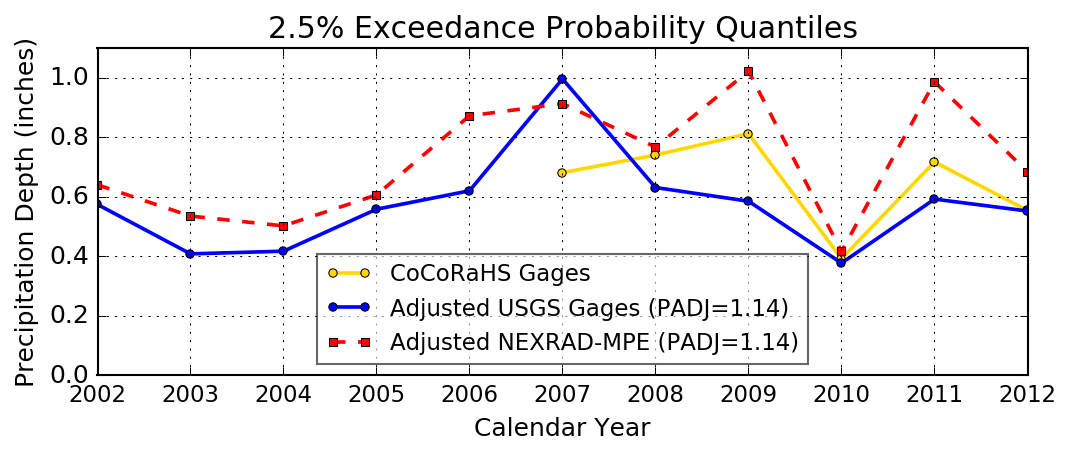
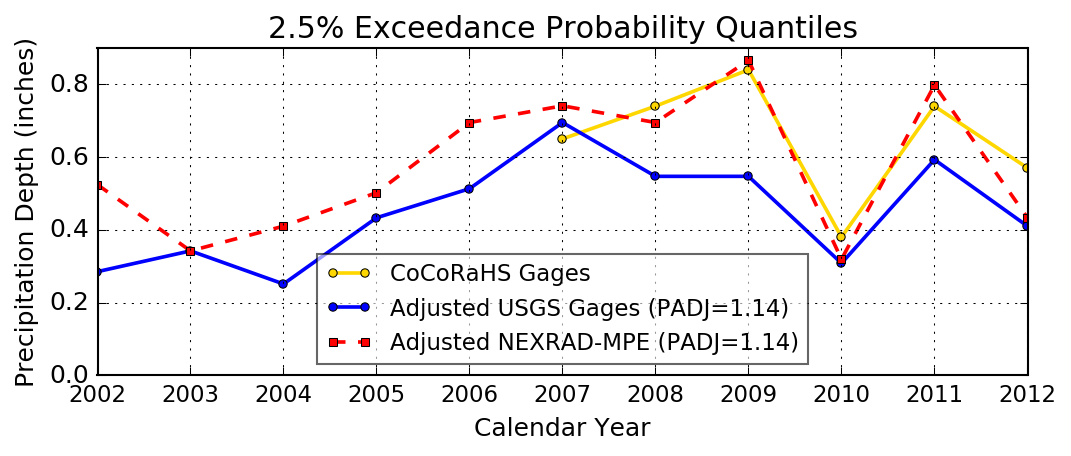
modified annual exceedance calc to use all annual gage data instead of by station by year mean - updated figs

diff --git a/plot_scripts/plot_annual_exceedence.py b/plot_scripts/plot_annual_exceedence.py
@@ -18,7 +18,7 @@ maindir = os.getcwd() + os.sep
 
 ############# USER INPUT BLOCK ###############################################
 gage_nets = ['cocorahs','usgs'] # choices: 'usgs' or 'cocorahs'
-criteria = 'Freeze' # choicea are 'Freeze' or 'Thaw' #see find_freeze_days.py for more info
+criteria = 'Thaw' # choicea are 'Freeze' or 'Thaw' #see find_freeze_days.py for more info
 exceed_prob_list = [0.025, 0.05, 0.10, 0.25] # decimal exceendence probablity option (enter 0 to ignore)
 padj = 1.14
 ################# create a list of days to use in the analysis ########################
@@ -87,16 +87,21 @@ for exceed_prob in exceed_prob_list:
         # for each data found in the paired files
         yr_lib_gage = {} # create a library of annual data for gage data
         if count == 1: # only initialize (create empty) dictionary for the first gage_net -> allows nexrad data to include pairs for all gage_nets
-            yr_lib_nex = {} # create a library of annual data for nexrad data
+            yr_lib_nex = {}; all_values_all_nex={} # create a library of annual data for nexrad data
         pfiles = os.listdir(maindir + 'data\\' + gage_net[:4] + '_nexrad_paired\\')    
+        all_values_all_gages={}; num_gages = len(pfiles)
+        gage_cnt = 0
         for each_pair in pfiles:
-            miss_cnt = 0
+            gage_cnt += 1
             if each_pair[:1] != 's' and each_pair[:-4] in gages_met: #ignores status.txt file
                 popen = open(maindir + 'data\\' + gage_net[:4] + '_nexrad_paired\\' + each_pair ,'r')
                 #print each_pair
                 import module_parse_txt
                 time_period = 'annual' # this tells the module to compute theshold values annually
                 yr_lib_gage,yr_lib_nex = module_parse_txt.exceedence(popen,exceed_prob,temp_lib,criteria,yr_lib_gage,yr_lib_nex)
+                popen.close()
+                popen = open(maindir + 'data\\' + gage_net[:4] + '_nexrad_paired\\' + each_pair ,'r')
+                yr_lib_all_gages,yr_lib_all_nex,all_values_all_gages,all_values_all_nex = module_parse_txt.exceedence_years(popen,exceed_prob,temp_lib,criteria,all_values_all_gages,all_values_all_nex,gage_cnt,num_gages)
                 popen.close()
           
         ############ Check to use only years containing adequate data #######
@@ -119,15 +124,15 @@ for exceed_prob in exceed_prob_list:
         in_gage = []; in_nex = []
         for all_site_gage in years_plot:
             if gage_net == 'usgs' and padj > 1.0:
-                in_gage.append(round(numpy.mean(yr_lib_gage[str(all_site_gage)])*padj,3))
+                in_gage.append(round(numpy.mean(yr_lib_all_gages[str(all_site_gage)])*padj,3))
             else:
-                in_gage.append(round(numpy.mean(yr_lib_gage[str(all_site_gage)]),3))
+                in_gage.append(round(numpy.mean(yr_lib_all_gages[str(all_site_gage)]),3))
         for all_site_nex in years_plot:
             if padj > 1.0:
                 print 'PADJ = ' + str(padj)
-                in_nex.append(round(numpy.mean(yr_lib_nex[str(all_site_nex)])*padj,3))
+                in_nex.append(round(numpy.mean(yr_lib_all_nex[str(all_site_nex)])*padj,3))
             else:
-                in_nex.append(round(numpy.mean(yr_lib_nex[str(all_site_nex)]),3))
+                in_nex.append(round(numpy.mean(yr_lib_all_nex[str(all_site_nex)]),3))
         print in_gage
         print in_nex
     

diff --git a/plot_scripts/module_parse_txt.py b/plot_scripts/module_parse_txt.py
@@ -176,6 +176,50 @@ def exceedence(txt_file,exceed_prob,temp_days,temp_criteria,yr_lib_gage,yr_lib_n
             yr_lib_nex[each_yr] = [threshold]
 
     return (yr_lib_gage,yr_lib_nex)
+    
+###############################################################################
+def exceedence_years(txt_file,exceed_prob,temp_days,temp_criteria,all_values_all_gages,all_values_all_nex,gage_cnt,num_gages):  
+    yr_lib_all_gages={}; yr_lib_all_nex={}
+    for line in txt_file:
+        if line[:2] == '20': #ignores header
+            pdata = line.split('\t')
+            pgage = pdata[1].rstrip()
+            pnex = pdata[2].rstrip()
+            year = str(line[:4])
+            date = pdata[0]
+            if str(pgage).rstrip() != 'na' and date in temp_days[temp_criteria]:
+                if float(pgage) >= 0:  # create a list of precip values >= 0.0in
+                    #keep a running dictionary with data for all gages
+                    if year in all_values_all_gages:
+                        all_values_all_gages[year].append(float(pgage))
+                    else:
+                        all_values_all_gages[year] = [float(pgage)]
+            
+            if str(pnex).rstrip() != 'na' and date in temp_days[temp_criteria]:
+                if float(pnex) >= 0:  # create a list of precip values >= 0.0in
+                    #keep a running dictionary with data for all gages/cells
+                    if year in all_values_all_nex:
+                        all_values_all_nex[year].append(float(pnex))
+                    else:
+                        all_values_all_nex[year] = [float(pnex)]
+
+    # perform exceendance calculations using data for all gages as opposed to by gage from above
+    print gage_cnt
+    
+    ###### GAGE: calc exceedence values annually and append to year library ######
+    for each_yr in all_values_all_gages:
+        all_sort_gage = sorted(all_values_all_gages[each_yr], reverse=True)
+        rank_gage = int(exceed_prob * (len(all_sort_gage) + 1))
+        threshold = all_sort_gage[rank_gage - 1]
+        yr_lib_all_gages[each_yr] = [threshold]
+    ###### GAGE: calc exceedence values annually and append to year library ######
+    for each_yr in all_values_all_nex:
+        all_sort_nex = sorted(all_values_all_nex[each_yr], reverse=True)
+        rank_nex = int(exceed_prob * (len(all_sort_nex) + 1))
+        threshold = all_sort_nex[rank_nex - 1]
+        yr_lib_all_nex[each_yr] = [threshold]
+
+    return (yr_lib_all_gages,yr_lib_all_nex,all_values_all_gages,all_values_all_nex)
 ###############################################################################
 
 def exceedence_all_years(all_gage,all_nex,exceed_prob_list,gage_net,gage_nets,cnt,padj):  
